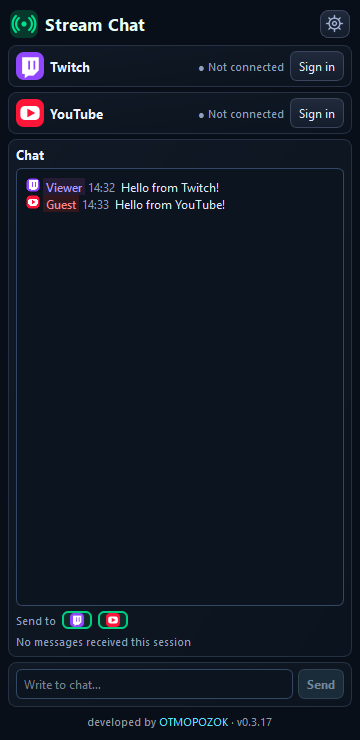
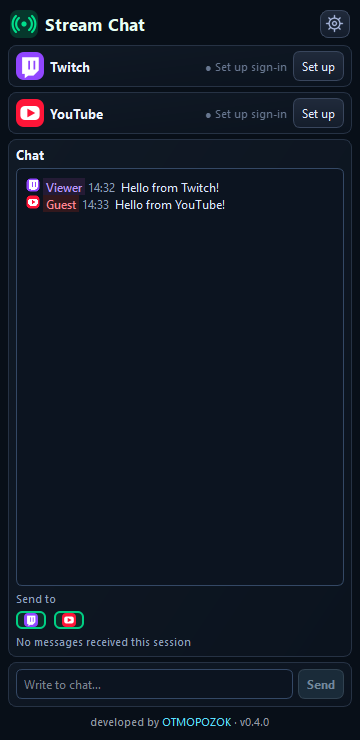
Publish verified Kick guide and fresh Stream Chat screenshots

diff --git a/README.md b/README.md
@@ -2,7 +2,7 @@
 
 **Чаты Twitch, YouTube и Kick в одной панели OBS.** Сообщения легко отличать по значку сервиса. Можно отвечать в выбранные чаты одновременно.
 
-**Twitch, YouTube и Kick с личными приложениями — версия 0.4.0, пока в проверке.** Для каждого используемого сервиса создаётся своё приложение по [нашей инструкции](docs/REGISTER_APPS_RU.md).
+**Twitch, YouTube и Kick с личными приложениями — версия 0.4.0.** Для каждого используемого сервиса создаётся своё приложение по [нашей инструкции](docs/REGISTER_APPS_RU.md).
 
 ![Stream Chat](docs/screenshots/chat-ru.png)
 
@@ -34,7 +34,7 @@ Stream Chat работает самостоятельно: Stream Notify и Stre
 
 [Как зарегистрировать приложения Twitch, YouTube и Kick: ссылки, кнопки и поля](docs/REGISTER_APPS_RU.md).
 
-Для **OBS Studio 33 на Windows x64**. Сборка пока не подписана. YouTube чат и автоматическое восстановление связи ещё требуют проверки во время реального эфира.
+Для **OBS Studio 33 на Windows x64**. Сборка пока не подписана. Работа Kick проверена с настоящим аккаунтом; Twitch, YouTube и восстановление связи дополнительно проверяются во время реальных эфиров.
 
 ## Ещё
 

diff --git a/docs/README_EN.md b/docs/README_EN.md
@@ -4,7 +4,7 @@
 
 ![Stream Chat English interface](screenshots/chat-en.png)
 
-*Version 0.3.17 UI preview from an isolated test host; messages and connections are sample data.* [Russian interface](screenshots/chat-ru.png) · [Narrow dock](screenshots/chat-narrow-ru.png) · [Settings](screenshots/settings-en.png).
+*Version 0.4.0 UI preview from an isolated test host; messages and connections are sample data.* [Russian interface](screenshots/chat-ru.png) · [Narrow dock](screenshots/chat-narrow-ru.png) · [Settings](screenshots/settings-en.png).
 
 ## Features
 
@@ -19,7 +19,7 @@
 
 ## How the plugins work together
 
-The **0.4.0 test branch** uses personal developer applications for Twitch, YouTube and Kick. Each account section has a setup guide link. Enable Kick to show its card and green K marker. Kick reading only needs a channel name; sending requires sign-in. Final account checks are still in progress.
+Version 0.4.0 uses personal developer applications for Twitch, YouTube and Kick. Each account section has a setup guide link. Enable Kick to show its card and green K marker. Kick reading only needs a channel name; sending requires sign-in. Kick reading, sign-in, token refresh and sending were verified with a real account.
 
 Stream Chat works on its own. Stream Stats can read Chat's local CPU, tracked data and traffic counters when installed. Stream Notify may use Chat's saved Twitch and YouTube sign-ins to check live status; it does not change Chat's account data.
 

diff --git a/docs/KICK_RU.md b/docs/KICK_RU.md
@@ -1,6 +1,6 @@
 # Как подключить Kick
 
-Поддержка Kick появится в Stream Chat 0.4.0. Пока это тестовая версия: проверка входа и отправки с настоящим аккаунтом ещё не закончена.
+Поддержка Kick входит в Stream Chat 0.4.0. Чтение чата, вход через личное приложение, обновление входа и отправка сообщения проверены с настоящим аккаунтом Kick.
 
 ## Только читать чат
 
